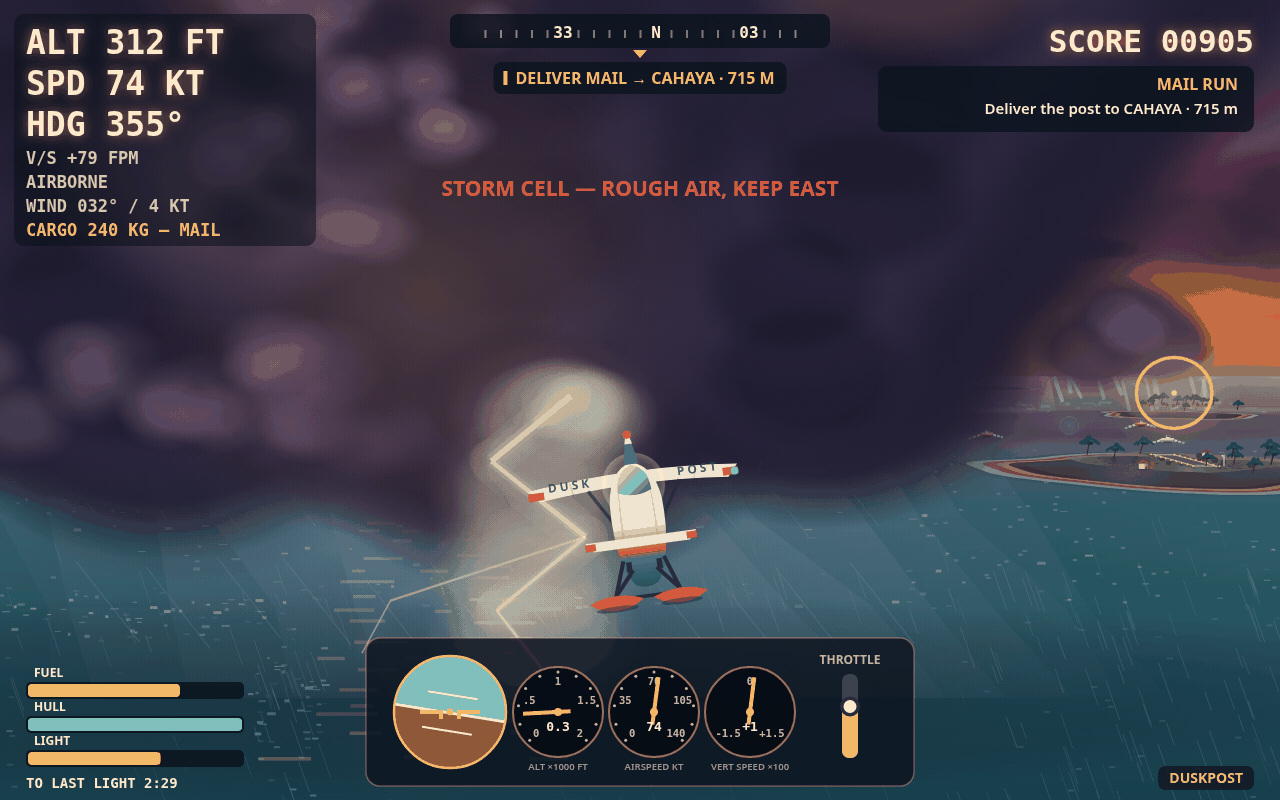
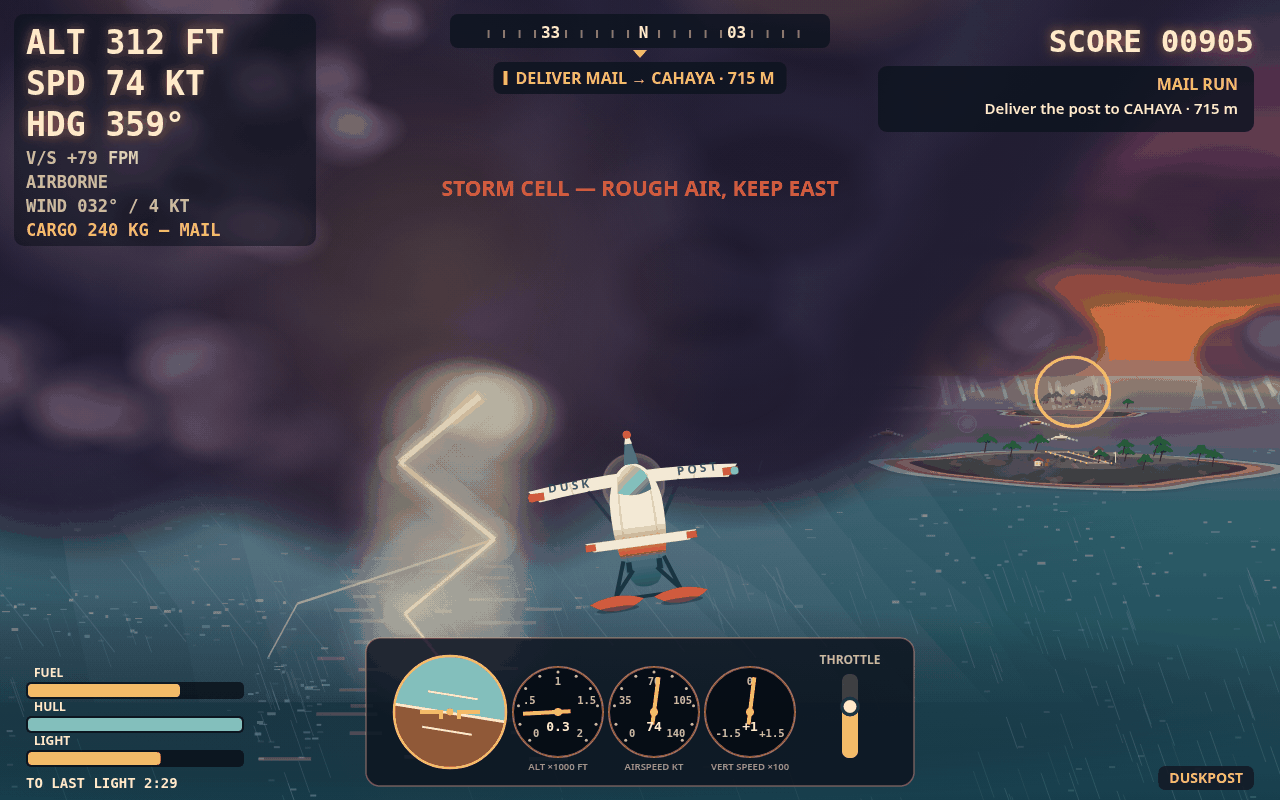
V47: the island has ground under it now, and the storm's island is an island (NEAR-GRASS + STORM-EAST + RING-CLEAR)

diff --git a/game/src/render.js b/game/src/render.js
@@ -3927,6 +3927,54 @@ function drawIsland(ctx, v, isl, t, light, world) {
         ctx.ellipse(sp.x, sp.y, sr * sasp, sr * 0.75, srot, 0, Math.PI * 2);
         ctx.fill();
       }
+      // V47 NEAR-GRASS: the cover's island grass is the set's
+      // flattest big surface (V47 audit problem 1) — at judge
+      // size the band y252-324, x420-768 is 79.3% green, one flat
+      // field, because the main pass's 160 world-space specks are
+      // ~2 px at 440 m and the delivery rect passes never sample
+      // py <560. A screen-space stubble pass for the near-grass
+      // band (px 100-1280, py 400-500), the same fixed-point height
+      // inversion and island clip as the V32/V34 passes, count 360,
+      // salts 131-136, radius floor 3.5, cap 5.0, the E2 tones. The
+      // rect is grass at the cover, approach and delivery cameras
+      // alike; at storm it is sea except for Tanjung's grass (the
+      // clip keeps the pass on land); at rescue it is sea except
+      // where the boat sits (the boat draws after, on top). The
+      // strip, huts and palms draw after this, on top, so no speck
+      // ever dots the runway. The approach grass 2x crop is the
+      // guard: if it turns scratchy, this reverts.
+      // V47 REVISION (first probe render: 160 dashes at 3.0-4.5
+      // read as sparse flecks on the cover — 7,458 px changed in
+      // the band but the judge-size green share barely moved, so
+      // the lever is DENSITY/SIZE, not presence: count 160 -> 360
+      // and radius 3.0-4.5 -> 3.5-5.0. The second probe render
+      // reads as grass stubble across the whole cover field at
+      // full size and at judge size.)
+      for (let i = 0; i < 360; i += 1) {
+        const sx = 100 + sh(i, 131) * 1180;
+        const sy = 400 + sh(i, 132) * 100;
+        let swx = 0, swz = 0, shgt = 0;
+        for (let it = 0; it < 3; it += 1) {
+          const ss = (sy - v.horizon) / (v.camY - shgt);
+          if (ss <= 0) break;
+          const sfwd = v.focal / ss;
+          const sright = (sx - VIEW_W / 2) / ss;
+          swx = v.camX + sfwd * v.sinH + sright * v.cosH;
+          swz = v.camZ + sfwd * v.cosH - sright * v.sinH;
+          shgt = world.heightAt(swx, swz);
+        }
+        const sp = project(v, swx, shgt, swz);
+        if (!sp || sp.x < 100 || sp.x > 1280 || sp.y < 400 || sp.y > 500) continue;
+        const sr = clamp(sp.s * 0.75, 3.5, 5.0) * (0.7 + sh(i, 134) * 0.6);
+        const srot = (sh(i, 135) - 0.5) * 1.05;
+        const sasp = 1.5 + sh(i, 136) * 1.5;
+        ctx.fillStyle = sh(i, 133) > 0.62
+          ? hexA(tone('#a8b878', '#4a5a3a'), speckA * 1.17)
+          : hexA(toneLand('#1f4030', '#0c1c14'), speckA * 1.3);
+        ctx.beginPath();
+        ctx.ellipse(sp.x, sp.y, sr * sasp, sr * 0.75, srot, 0, Math.PI * 2);
+        ctx.fill();
+      }
       ctx.restore();
     }
   }

diff --git a/game/src/shots.js b/game/src/shots.js
@@ -73,7 +73,7 @@ export function stageShot(name, seed) {
     plane.x = -470;
     plane.z = 2680;
     plane.y = 95;
-    plane.hdg = -0.09;
+    plane.hdg = -0.02; // V47 STORM-EAST: swing east so Tanjung comes fully in frame
     plane.speed = 38;
     plane.throttle = 0.66;
     plane.vy = 0.4;
@@ -278,7 +278,7 @@ export function stageShot(name, seed) {
     // the frame — a gate on the final, not a halo dead centre.
     for (const r of world.rings) if (r.z < plane.z) r.passed = true;
     const ring = world.rings.find((r) => !r.passed && r.z > plane.z) || world.rings[3];
-    ring.x = plane.x + 30;
+    ring.x = plane.x + 55; // V47 RING-CLEAR: the ring's arc clears the FINAL text
     ring.y = 14;
     ring.z = plane.z + 130;
     // V22: two far rings overlap into a bubble Venn mid-frame
